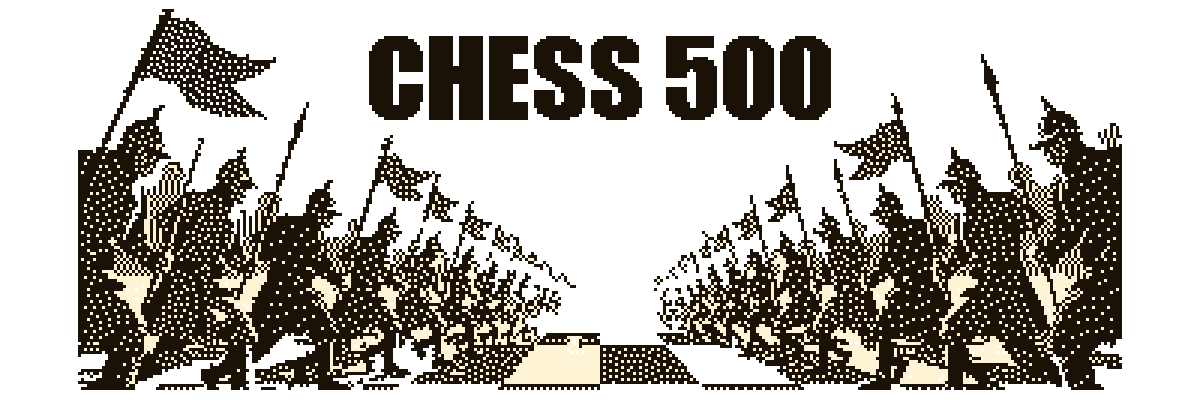
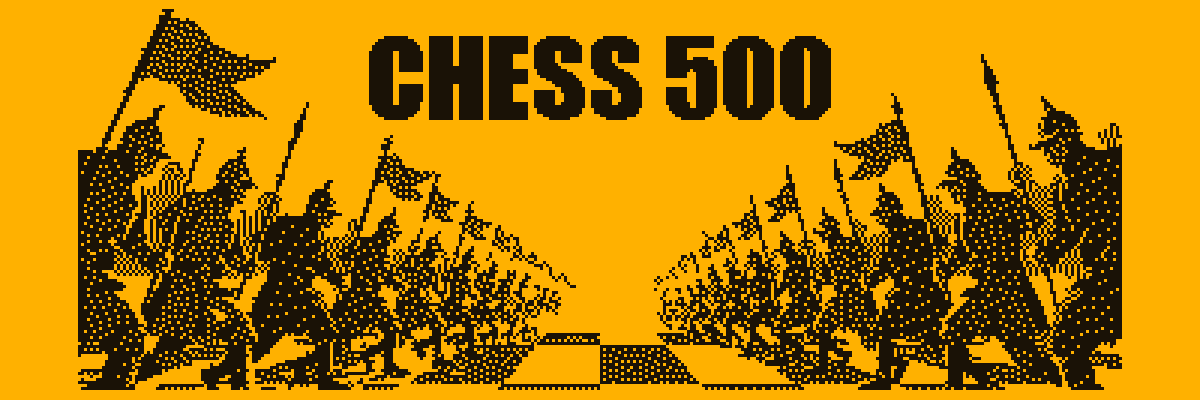
chess-review: use the opaque header art from the chess500 repo
The old transparent header showed cream speckles on the yellow band. Swap in
the flattened #FFB100 version and make the header band solid yellow so the art
blends in without a visible box.

diff --git a/apps/chess-review.html b/apps/chess-review.html
@@ -40,8 +40,6 @@
         .cr-top {
             padding: 18px 20px 28px;
             background-color: var(--c5-yellow);
-            background-image: repeating-conic-gradient(var(--c5-yellow-deep) 0% 25%, transparent 0% 50%);
-            background-size: 40px 40px;
         }
         .cr-nav {
             max-width: 1040px;
